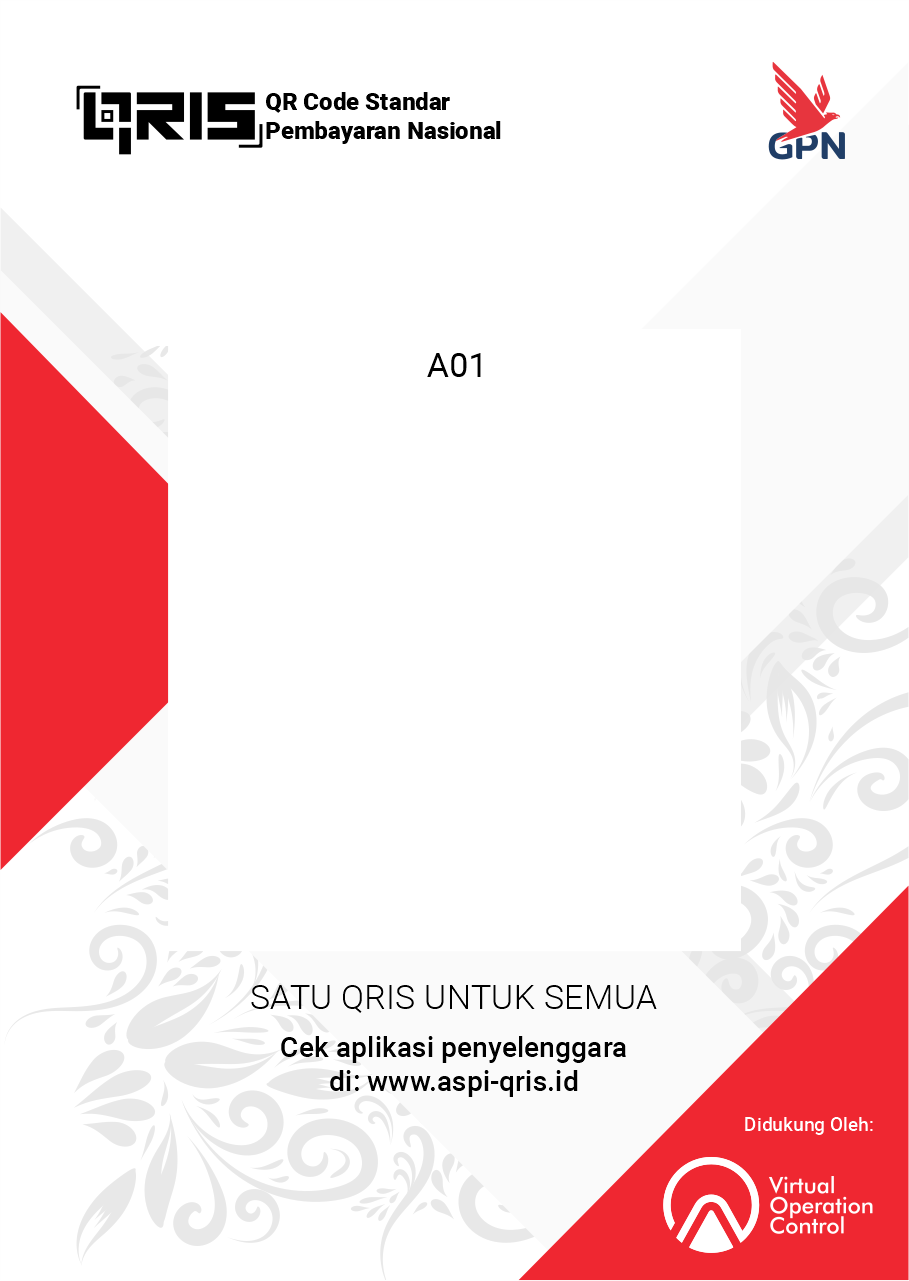
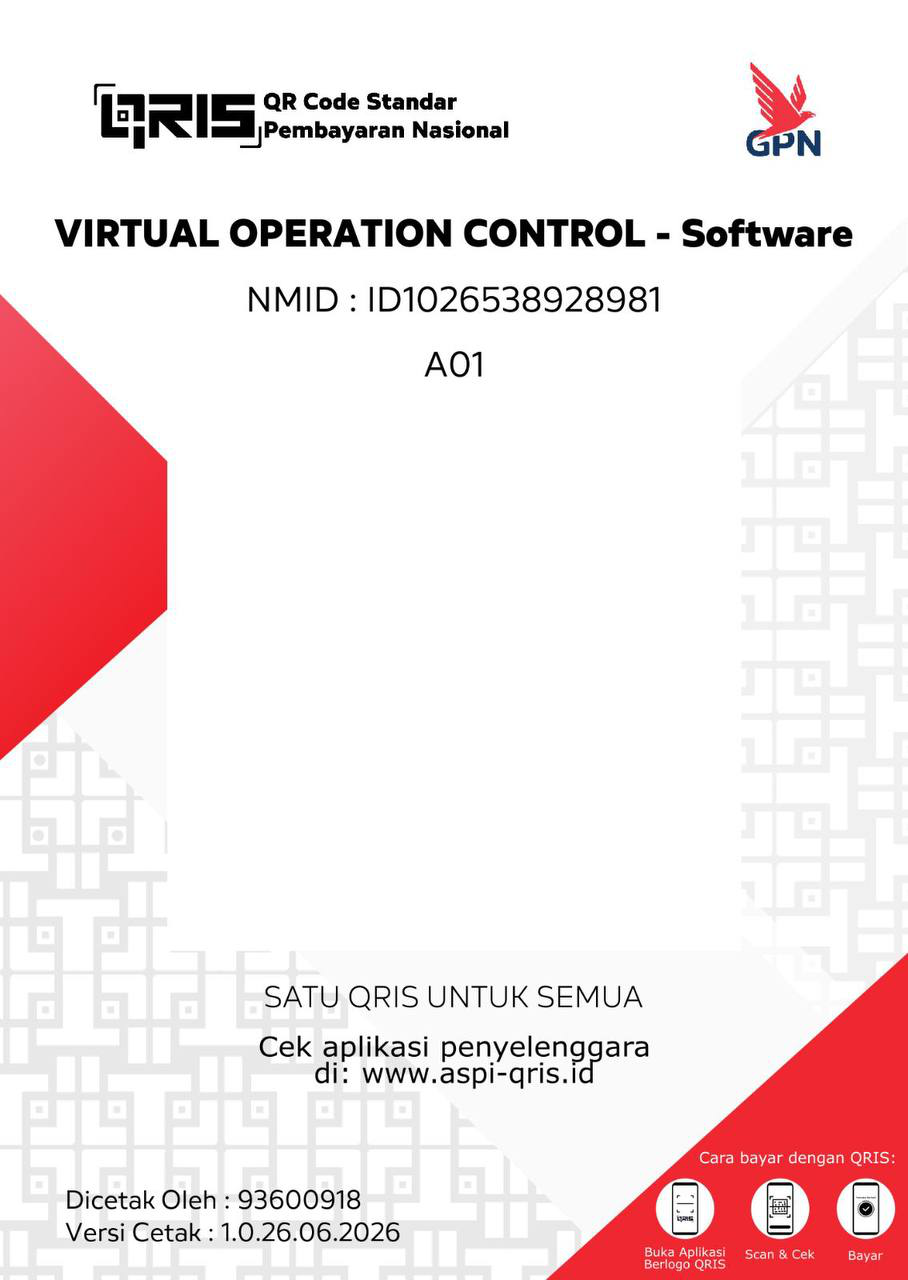
feat: Add supported payment methods UI on CFD and Activation page

diff --git a/frontend/src/app/display/page.tsx b/frontend/src/app/display/page.tsx
@@ -2229,7 +2229,7 @@ function SmartDisplayContent() {
                                             </div>
 
                                             {paymentState.paymentMethod === 'QRIS' && paymentState.dynamicQrisString && (
-                                                <div className="flex-1 overflow-y-auto noscrollbar mt-2 flex items-center justify-center p-2 rounded-xl" style={{ backgroundColor: 'transparent' }}>
+                                                <div className="flex-1 overflow-y-auto noscrollbar mt-2 flex flex-col gap-6 items-center justify-center p-2 rounded-xl" style={{ backgroundColor: 'transparent' }}>
                                                     <div style={{
                                                         position: 'relative',
                                                         width: '100%',
@@ -2307,6 +2307,20 @@ function SmartDisplayContent() {
                                                             border: 'none'
                                                         }}>
                                                             Rp {(paymentState.paymentAmount || paymentState.remaining || 0).toLocaleString()}
+                                                        </div>
+                                                    </div>
+
+                                                    <div className="w-full max-w-[380px] mx-auto flex flex-col items-center gap-2 sm:gap-3 bg-white/5 p-4 rounded-2xl border border-white/5 shadow-2xl">
+                                                        <p className="text-[9px] font-black text-white/50 uppercase tracking-[0.2em]">Metode Pembayaran Didukung</p>
+                                                        <div className="flex flex-wrap justify-center gap-1.5 sm:gap-2">
+                                                            <span className="px-2 py-0.5 bg-white rounded text-[9px] font-black text-[#005E6A] italic shadow-sm">Mandiri</span>
+                                                            <span className="px-2 py-0.5 bg-white rounded text-[9px] font-black text-[#0066AE] italic shadow-sm">BCA</span>
+                                                            <span className="px-2 py-0.5 bg-white rounded text-[9px] font-black text-[#00529C] shadow-sm">BRI</span>
+                                                            <span className="px-2 py-0.5 bg-white rounded text-[9px] font-black text-[#F36F21] shadow-sm">BNI</span>
+                                                            <span className="px-2 py-0.5 bg-white rounded text-[9px] font-black text-[#00AED6] shadow-sm">DANA</span>
+                                                            <span className="px-2 py-0.5 bg-white rounded text-[9px] font-black text-[#4C2A86] shadow-sm">OVO</span>
+                                                            <span className="px-2 py-0.5 bg-white rounded text-[9px] font-black text-[#00AED6] shadow-sm">gopay</span>
+                                                            <span className="px-2 py-0.5 bg-white rounded text-[9px] font-black text-[#EE4D2D] shadow-sm">ShopeePay</span>
                                                         </div>
                                                     </div>
                                                 </div>

diff --git a/frontend/src/app/activate/page.tsx b/frontend/src/app/activate/page.tsx
@@ -294,11 +294,25 @@ export default function ActivatePage() {
 
             {renewalInfo?.nominal && (
               <>
-                <div style={{ color: '#64748b', fontSize: '12px', fontWeight: '600', marginBottom: '4px' }}>
+                <div style={{ color: '#64748b', fontSize: '12px', fontWeight: '600', marginBottom: '4px', marginTop: '16px' }}>
                   Jumlah Nominal:
                 </div>
                 <div style={{ color: '#fff', fontSize: '28px', fontWeight: '800', fontFamily: 'monospace' }}>
                   Rp{renewalInfo.nominal.toLocaleString('id-ID')}
+                </div>
+                
+                <div className="w-full max-w-[340px] mx-auto mt-6 flex flex-col items-center gap-2 sm:gap-3 bg-white/5 p-4 rounded-2xl border border-white/5 shadow-2xl">
+                    <p className="text-[9px] font-black text-white/50 uppercase tracking-[0.2em]">Metode Pembayaran Didukung</p>
+                    <div className="flex flex-wrap justify-center gap-1.5 sm:gap-2">
+                        <span className="px-2 py-0.5 bg-white rounded text-[9px] font-black text-[#005E6A] italic shadow-sm">Mandiri</span>
+                        <span className="px-2 py-0.5 bg-white rounded text-[9px] font-black text-[#0066AE] italic shadow-sm">BCA</span>
+                        <span className="px-2 py-0.5 bg-white rounded text-[9px] font-black text-[#00529C] shadow-sm">BRI</span>
+                        <span className="px-2 py-0.5 bg-white rounded text-[9px] font-black text-[#F36F21] shadow-sm">BNI</span>
+                        <span className="px-2 py-0.5 bg-white rounded text-[9px] font-black text-[#00AED6] shadow-sm">DANA</span>
+                        <span className="px-2 py-0.5 bg-white rounded text-[9px] font-black text-[#4C2A86] shadow-sm">OVO</span>
+                        <span className="px-2 py-0.5 bg-white rounded text-[9px] font-black text-[#00AED6] shadow-sm">gopay</span>
+                        <span className="px-2 py-0.5 bg-white rounded text-[9px] font-black text-[#EE4D2D] shadow-sm">ShopeePay</span>
+                    </div>
                 </div>
               </>
             )}
